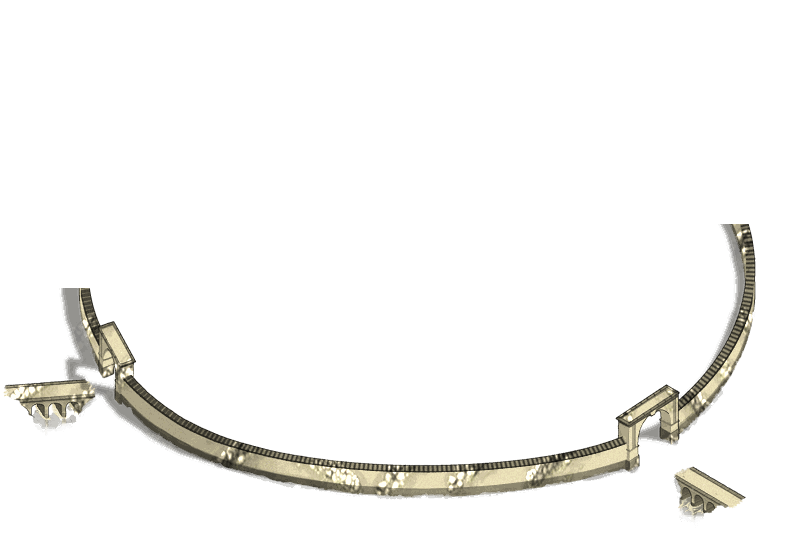
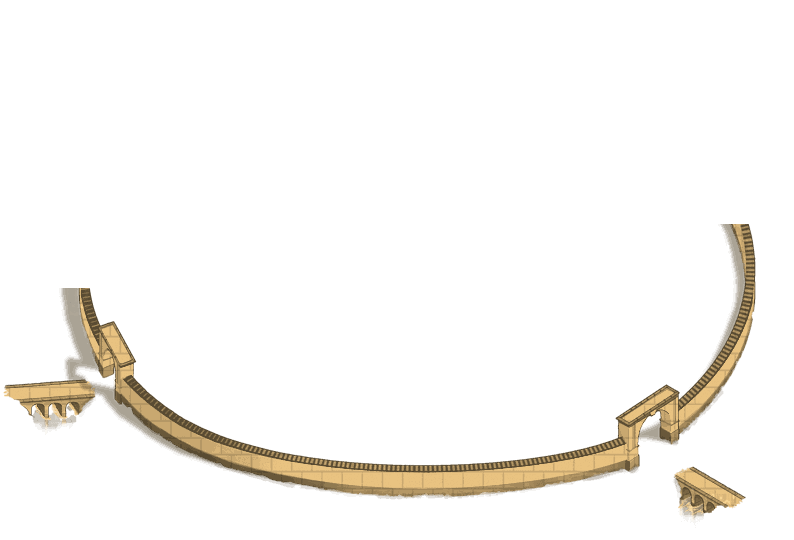
T64: roman city wall (g31) re-skinned with natural tsowiki.eu sandstone
User request: "دیوار شهر با استفاده از https://tsowiki.eu/ تغییر بده" -
the T62 city wall was built from the mossy o_wall segments washed to pale
grey; redo with the real TSO sandstone look.

Material: palette and micro-grain sampled from the flat sandstone faces of
o_big_angelgate_01 + b_watchtower_lvl_04 (auto-picked flat-stone windows:
low variance, no saturated green/red/blue, opaque). Rendered procedurally:
per-block tint jitter, staggered ashlar courses with dark seams and lit top
edges, two-octave noise, real stone high-frequency grain at 14%. The first
attempt (object-crop patchwork + mirror tiling) produced camouflage/
kaleidoscope artifacts and one broken v=62 push; replaced by this clean
material and re-busted to v=63.

Targets: g31 Top/Bottom ring (794x540) + big (184x179), ltr mirrored,
palette-quantized (16-29KB). Deployed to img_rtl + img_ltr (12 files).
Cache: g31 urls v=62 -> v=63 in fa-FA compact1/2.css, imports v=63,
html.php compact.css?v=23. g32 stays v=60, g33 stays v=61.

Verified: 5 URLs 200 at new sizes; browser render of served sprites clean;
silhouettes pixel-identical to the original alpha. Backups from the first
deploy at /root/backups/t64-roman-img_{rtl,ltr}-bak.

Changed region(s): [[0.0, 0.4148, 0.9673, 0.9185], [0.8463, 0.8593, 0.937, 0.9481]]

diff --git a/gpackcdn/gpack/lang/fa-FA/compact2.css b/gpackcdn/gpack/lang/fa-FA/compact2.css
@@ -36,19 +36,19 @@
 }
 
 .buildingsV3 img.g31Top {
-    background-image: url('../../img_rtl/g/buildings2019/roman/g31Top-rtl.png?v=60');
+    background-image: url('../../img_rtl/g/buildings2019/roman/g31Top-rtl.png?v=63');
     width: 794px;
     height: 540px
 }
 
 .buildingsV3 img.g31Bottom {
-    background-image: url('../../img_rtl/g/buildings2019/roman/g31Bottom-rtl.png?v=60');
+    background-image: url('../../img_rtl/g/buildings2019/roman/g31Bottom-rtl.png?v=63');
     width: 794px;
     height: 540px
 }
 
 .buildingsV3 img.g31.big {
-    background-image: url('../../img_rtl/g/buildings2019/roman/big/g31-rtl.png?v=60');
+    background-image: url('../../img_rtl/g/buildings2019/roman/big/g31-rtl.png?v=63');
     width: 184px;
     height: 179px
 }

diff --git a/gpackcdn/gpack/lang/fa-FA/compact1.css b/gpackcdn/gpack/lang/fa-FA/compact1.css
@@ -454,7 +454,7 @@ body.buildingsV3.perspectiveBuildings div#background.showWall:after {
 }
 
 body.buildingsV3.perspectiveBuildings div#background.showWall.roman:after {
-    background-image: url('../../img_rtl/g/buildings2019/roman/g31Bottom-rtl.png?v=60'),url('../../img_rtl/g/buildings2019/roman/g31Top-rtl.png?v=60')
+    background-image: url('../../img_rtl/g/buildings2019/roman/g31Bottom-rtl.png?v=63'),url('../../img_rtl/g/buildings2019/roman/g31Top-rtl.png?v=63')
 }
 
 body.buildingsV3.perspectiveBuildings div#background.showWall.teuton:after {

diff --git a/gpackcdn/gpack/lang/fa-FA/compact.css b/gpackcdn/gpack/lang/fa-FA/compact.css
@@ -25,8 +25,8 @@
 
 
 @import "fontiran.css";
-@import "compact1.css?v=61";
-@import "compact2.css?v=61";
+@import "compact1.css?v=63";
+@import "compact2.css?v=63";
 @import "compact3.css";
 @import url("../../css_rtl/imports_compressed.css");
 

diff --git a/application/views/html.php b/application/views/html.php
@@ -99,7 +99,7 @@ if ($t26ov === '1') {
     <meta http-equiv="imagetoolbar" content="no"/>
     
     <meta name="content-language" content="<?php echo LANG_UR; ?>"/>
-    <link href="<?= GP_LOCATION ?>lang/<?php echo LANG_UR; ?>/compact.css?v=21" rel="stylesheet" type="text/css"/>
+    <link href="<?= GP_LOCATION ?>lang/<?php echo LANG_UR; ?>/compact.css?v=23" rel="stylesheet" type="text/css"/>
     <link href="<?= GP_LOCATION ?>lang/<?php echo LANG_UR; ?>/lang.css" rel="stylesheet" type="text/css"/>
 	<link href="<?= GP_LOCATION ?>lang/<?php echo LANG_UR; ?>/fixes.css?rev18" rel="stylesheet" type="text/css"/>
     <link href="/gpackcdn/gpack/mobile-responsive.css?v=11" rel="stylesheet" type="text/css"/>
